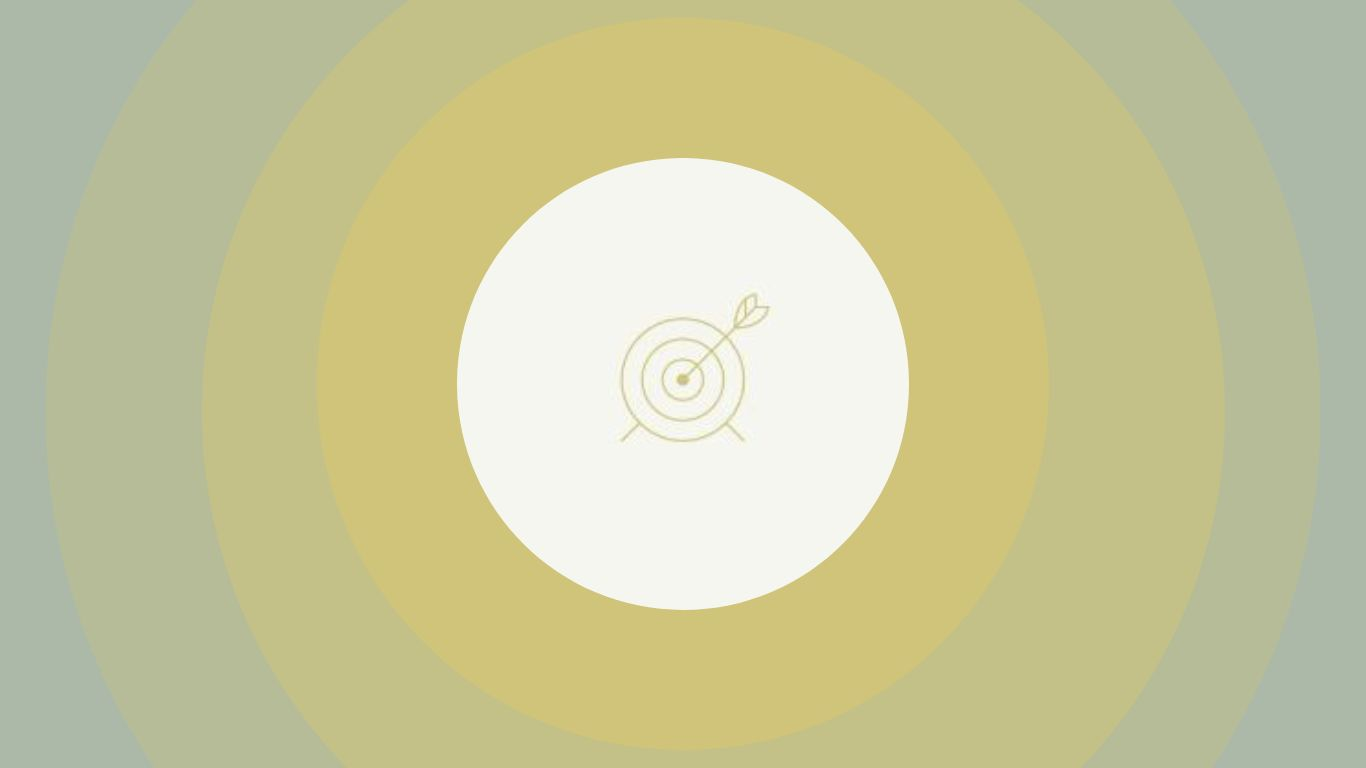
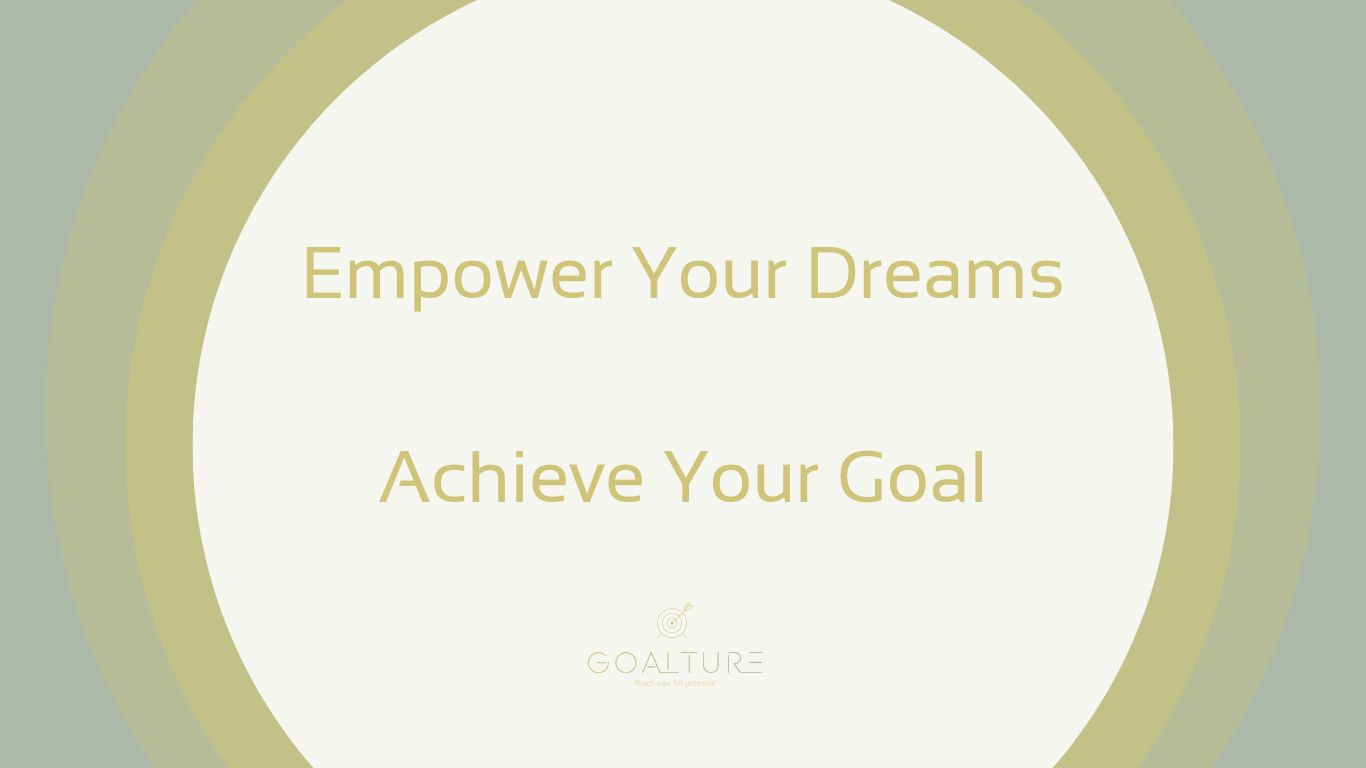
Adding more features to main page. Signup and login style forms done

diff --git a/public/stylesheets/style.css b/public/stylesheets/style.css
@@ -9,9 +9,72 @@
 /* Global Styles */
 * {
   background-color: #f6f6f0;
+  color: #acb9a8;
 }
 
-/* Navigation Bar */
-.nav-bar {
+/* Main page */
+
+.description-container {
   background-color: #f6f6f0;
+  padding: 50px 0;
+}
+.description-title {
+  color: #cfc479;
+  margin-top: 10px;
+  padding-bottom: 10px;
+  font-size: 40px;
+  height: min-content;
+  width: fit-content;
+}
+
+.description-secondtitle{
+  color:#c3c088;
+}
+
+.btn {
+  background-color: #b7bc98;
+  color: white;
+  padding: 10px 20px;
+  border: none;
+  border-radius: 5px;
+  text-decoration: none;
+  transition: #b7bc98 0.3s ease;
+}
+
+.btn:hover {
+  background-color: #cfc479;
+}
+
+footer,
+footer div,
+footer span {
+  background-color: #acb9a8;
+}
+
+.footer {
+  background-color: #acb9a8;
+}
+
+/* Signup & Login forms */
+
+.auth-form {
+  display: block;
+  align-items: center;
+  text-align: center;
+}
+
+.auth-btn {
+  font-size: 20px;
+  margin: 20px;
+  padding: 10px;
+  background-color: #cfc479;
+  border: 3px solid #c3c088;
+  color: #f6f6f0;
+}
+
+label {
+  color: #c3c088;
+}
+.auth-title {
+  color: #acb9a8;
 }
